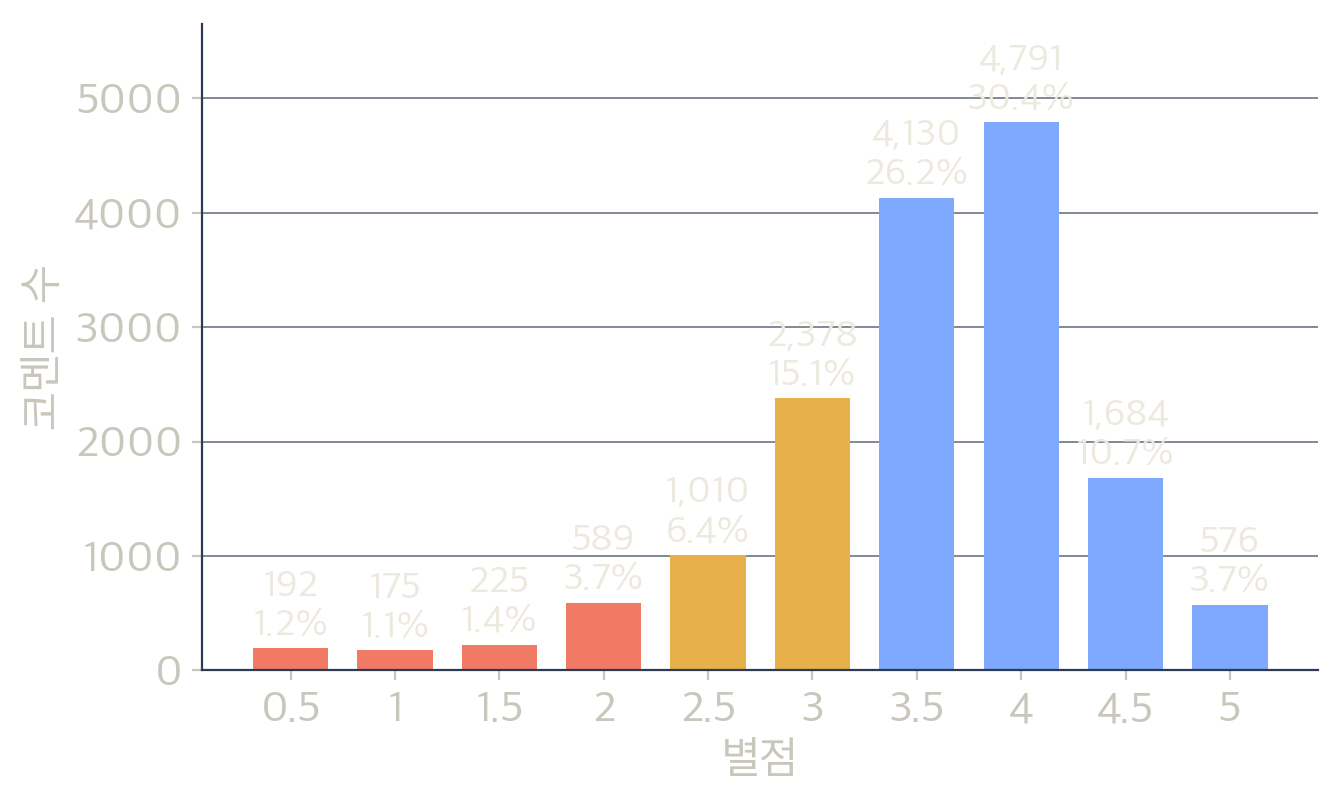
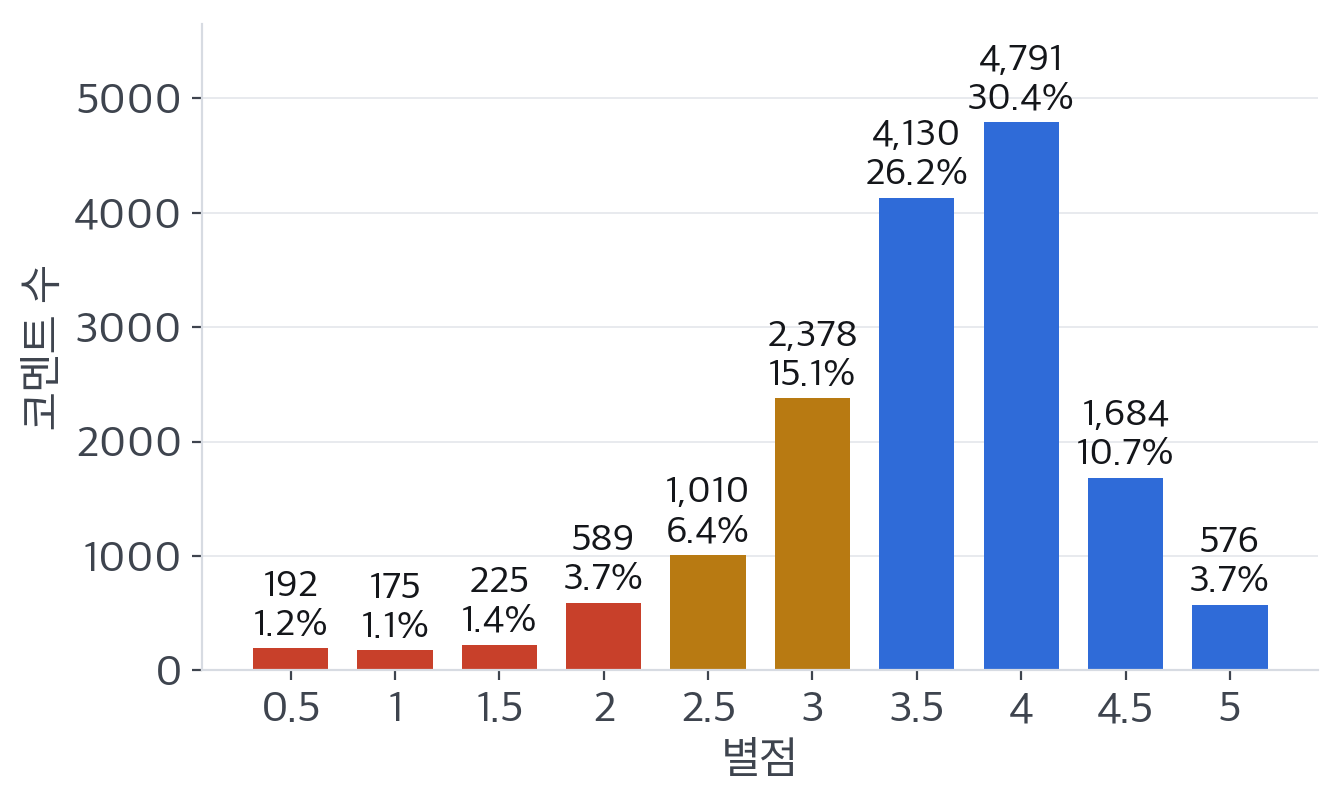
Use high-contrast light neutral for week-05 slides
- Background #f4f5f7 with ink #14161a for projector-friendly readability
- Cut film grain to 4% and soften the vignette over content
- Restore light chrome and regenerate charts on the neutral palette

diff --git a/docs/week-05-no-other-choice-reviews/index.html b/docs/week-05-no-other-choice-reviews/index.html
@@ -50,18 +50,31 @@
   .progress{position:fixed;top:0;left:0;height:3px;background:linear-gradient(90deg,var(--accent),var(--red));z-index:50;width:0}
   .hint{position:fixed;bottom:14px;left:50%;transform:translateX(-50%);z-index:40;font-family:var(--mono);font-size:12px;color:var(--muted);letter-spacing:.12em}
 
+  /* light chrome while a content slide is active */
+  .film,.topbar,.bottombar{transition:background .45s ease,color .45s ease,border-color .45s ease}
+  body.light .topbar{color:#66707e;border-bottom-color:rgba(20,22,26,.14);background:linear-gradient(#f4f5f7 70%,rgba(244,245,247,0))}
+  body.light .topbar .dot{background:#c8402a}
+  body.light .bottombar{color:#66707e}
+  body.light .counter b{color:#14161a}
+  body.light .hint{color:#66707e}
+  body.light .film{background:#e8ebf0;border-color:rgba(20,22,26,.07)}
+  body.light .film::before{background-image:repeating-linear-gradient(to bottom,rgba(20,22,26,.16) 0 14px,transparent 14px 38px)}
+  body.light .progress{background:linear-gradient(90deg,#c08a2f,#c8402a)}
+  body.light::before{opacity:.04;mix-blend-mode:multiply}
+  body.light::after{background:radial-gradient(130% 95% at 50% 40%,transparent 78%,rgba(15,23,42,.05) 100%)}
+
 
   .stage{position:absolute;inset:0}
   .slide{position:absolute;inset:0;display:flex;flex-direction:column;justify-content:center;
     padding:70px calc(var(--strip) + 4.5vw) 66px;opacity:0;visibility:hidden;overflow:hidden;transition:opacity .5s ease,visibility .5s}
   .slide.active{opacity:1;visibility:visible}
   /* light slides (2–16) — cover keeps the dark poster */
-  .slide:not(.poster-bg){background:#101a2b;color:var(--ink);
-    --ink:#ede9df; --ink-soft:#c9c6bc; --muted:#9aa2b1; --line:rgba(255,255,255,.13);
-    --panel:#172132; --panel-2:#111a29;
-    --accent:#e8b04b; --accent-solid:#e8b04b;
-    --blue:#7fa9ff; --red:#f07a63;}
-  .slide:not(.poster-bg) .pcard{box-shadow:0 1px 2px rgba(0,0,0,.25)}
+  .slide:not(.poster-bg){background:#f4f5f7;color:var(--ink);
+    --ink:#14161a; --ink-soft:#3e444e; --muted:#66707e; --line:rgba(20,22,26,.14);
+    --panel:#ffffff; --panel-2:#edeff3;
+    --accent:#a8690c; --accent-solid:#e8b04b;
+    --blue:#2f6bd8; --red:#c8402a;}
+  .slide:not(.poster-bg) .pcard{box-shadow:0 1px 2px rgba(16,24,40,.06)}
   .wrap{max-width:1360px;width:100%;margin:0 auto}
   [data-rise]{opacity:0;transform:translateY(24px)}
 
@@ -130,7 +143,7 @@
   .figcap{margin-top:10px;text-align:center;font-family:var(--mono);font-size:12.5px;letter-spacing:.04em;color:var(--muted)}
   .poster-figure{margin:0;justify-self:end;align-self:center}
   .poster-figure img{display:block;height:min(70vh,660px);width:auto;border-radius:5px;
-    box-shadow:0 24px 48px -20px rgba(0,0,0,.55),0 2px 8px rgba(0,0,0,.28)}
+    box-shadow:0 24px 48px -20px rgba(15,23,42,.35),0 2px 8px rgba(15,23,42,.12)}
   .split{display:grid;grid-template-columns:.92fr 1.08fr;gap:4vw;align-items:center}
   .split.rev{grid-template-columns:1.08fr .92fr}
 
@@ -463,6 +476,7 @@
     const cur=slides[idx],nxt=slides[n];
     cur.classList.remove('active'); reset(cur);
     idx=n; nxt.classList.add('active'); reset(nxt); animate(nxt);
+    document.body.classList.toggle('light', idx>0);
     progress.style.width=(idx/(total-1)*100)+'%';
     counter.innerHTML='<b>'+pad(idx+1)+'</b> / '+pad(total);
     setTimeout(()=>busy=false,reduce?50:240);

diff --git a/week-05-no-other-choice-reviews/make_charts.py b/week-05-no-other-choice-reviews/make_charts.py
@@ -22,16 +22,16 @@ ARGV = [a for a in sys.argv if a != "--light"]
 LIGHT = len(ARGV) != len(sys.argv)
 
 if LIGHT:
-    BG = "#f7f2e8"
-    INK = "#1a1815"
-    INK_SOFT = "#4a463f"
-    MUTED = "#7a7266"
-    LINE = "#ded4c2"
+    BG = "#f4f5f7"
+    INK = "#14161a"
+    INK_SOFT = "#3e444e"
+    MUTED = "#66707e"
+    LINE = "#d7dbe2"
     GOLD = "#b87a12"
     BLUE = "#2f6bd8"
     RED = "#c8402a"
     ORANGE = "#c9773a"
-    BAR_GRAY = "#d8cdb8"
+    BAR_GRAY = "#d5dae4"
 else:
     BG = "#101a2b"
     INK = "#ede9df"
